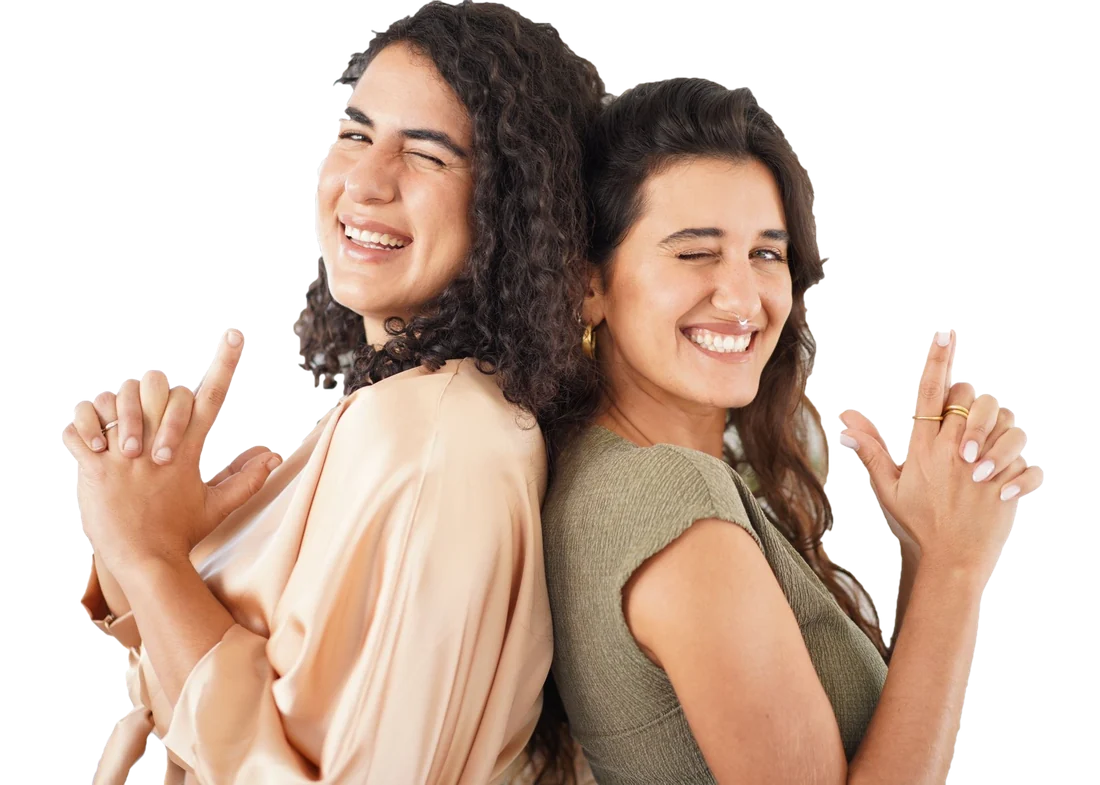
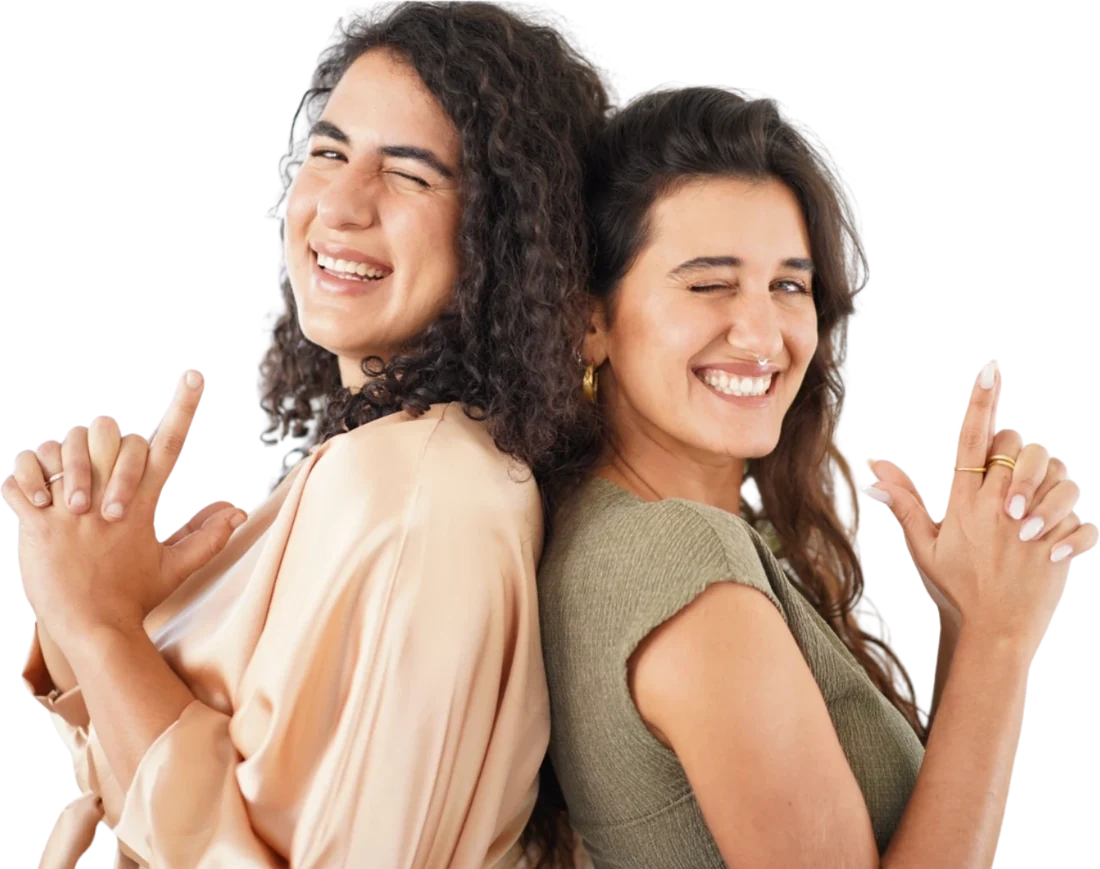
agency: replace hero duo cut-out with cleaner version
Claude-Session: https://claude.ai/code/session_01NjjH1yufZksXXxytAyR7nM

diff --git a/app/agency.html b/app/agency.html
@@ -622,7 +622,7 @@ header .logo img{height:54px;display:block;animation:logo-float 4s ease-in-out i
     </div>
     <div class="hero-photo" aria-hidden="false">
       <div class="disc" aria-hidden="true"></div>
-      <img class="duo" src="brand/duo-cut.webp" alt="רוני ואורין קורצות למצלמה" width="1100" height="785" fetchpriority="high">
+      <img class="duo" src="brand/duo-cut.webp" alt="רוני ואורין קורצות למצלמה" width="1100" height="869" fetchpriority="high">
       <img class="hp crown" src="brand/dd/crown.png" alt="" aria-hidden="true">
       <img class="hp twinkle" src="brand/dd/sparkles.png" alt="" aria-hidden="true">
       <img class="hp swoosh" src="brand/dd/swoosh.png" alt="" aria-hidden="true">
